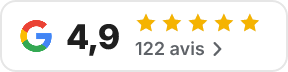
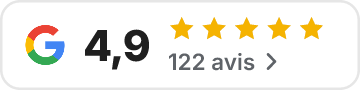
Mise à jour du badge avis Google

diff --git a/index.html b/index.html
@@ -9,7 +9,7 @@
 <div class="bloc" id="photo"><a href="https://juliensarton.fr" target="_blank"><img src="__BASE__photo.png" width="110" height="110" alt="Julien Sarton" style="display:block;border:0;width:110px;height:110px;border-radius:50%"></a></div>
 <button onclick="copy('photo',this)">Copier la photo</button>
 <h2>Badge avis Google</h2>
-<div class="bloc" id="badge"><a href="https://search.google.com/local/reviews?placeid=ChIJnXvPgQFjsE8RavDFEUXUaSQ" target="_blank"><img src="__BASE__badge.png" width="144" height="36" alt="Avis Google – Julien Sarton" style="display:block;border:0;width:144px;height:36px"></a></div>
+<div class="bloc" id="badge"><a href="https://search.google.com/local/reviews?placeid=ChIJnXvPgQFjsE8RavDFEUXUaSQ" target="_blank"><img src="__BASE__badge.png?v=4" width="180" height="45" alt="Avis Google – Julien Sarton" style="display:block;border:0;width:180px;height:45px"></a></div>
 <button onclick="copy('badge',this)">Copier le badge</button>
 <script>
 // remplace __BASE__ par l'adresse absolue de la page, pour que Gmail récupère les bonnes URL
